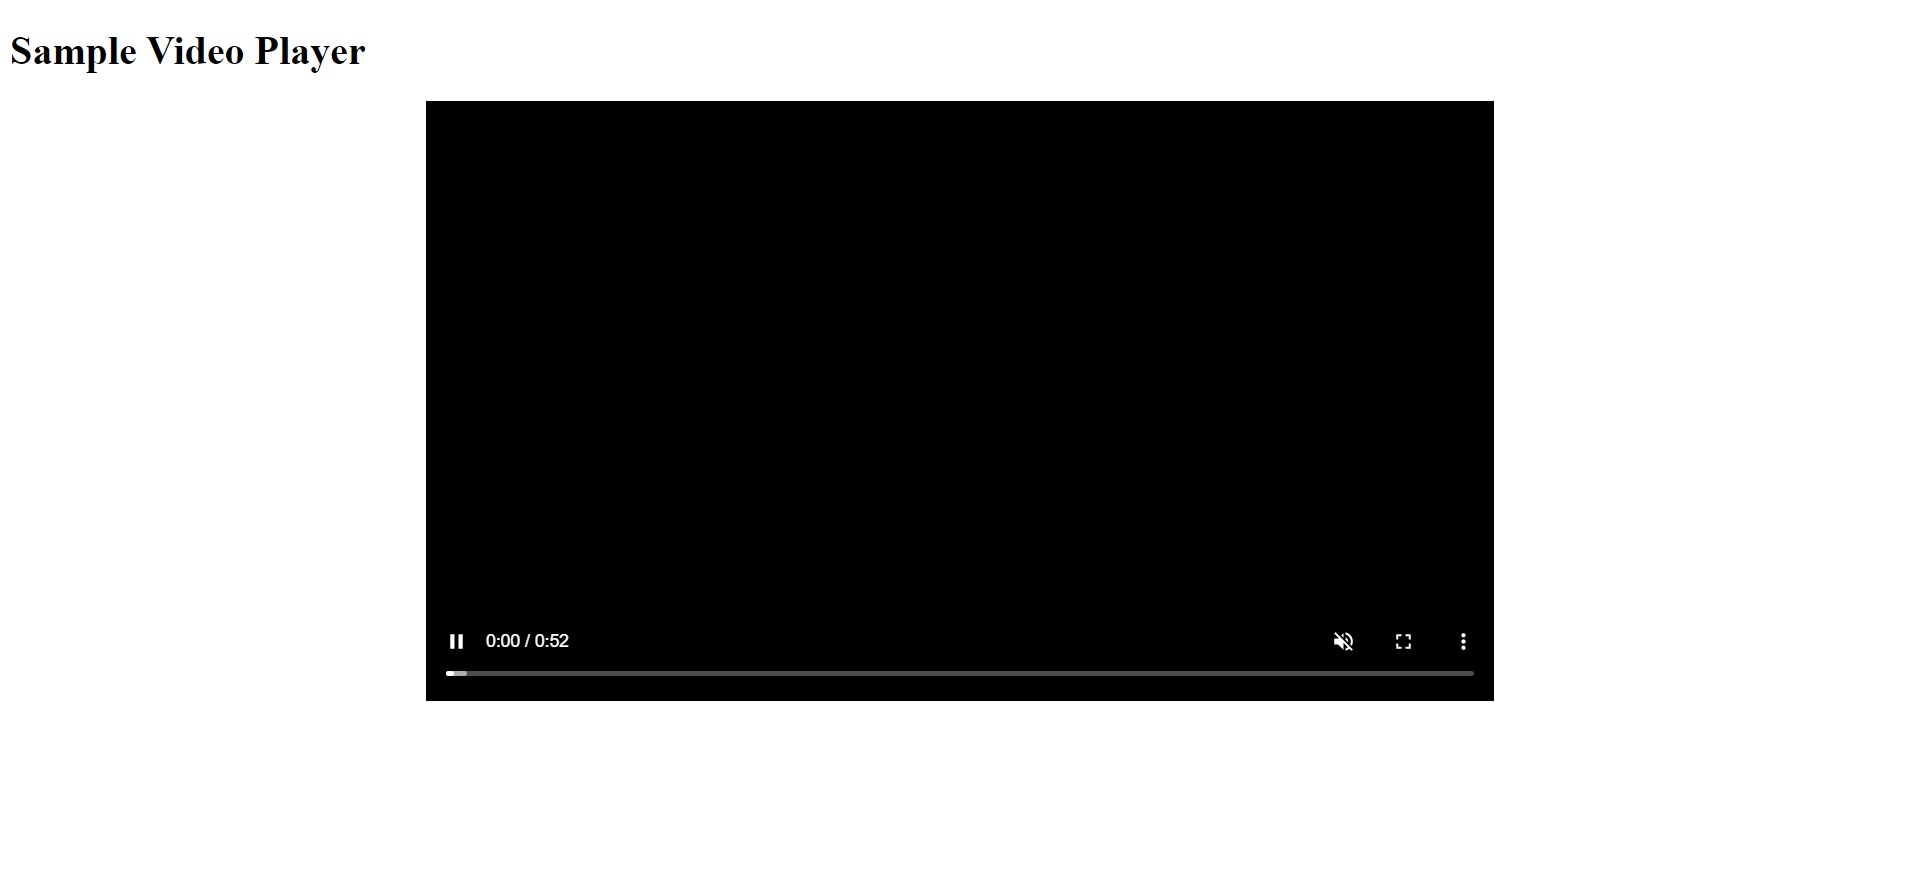
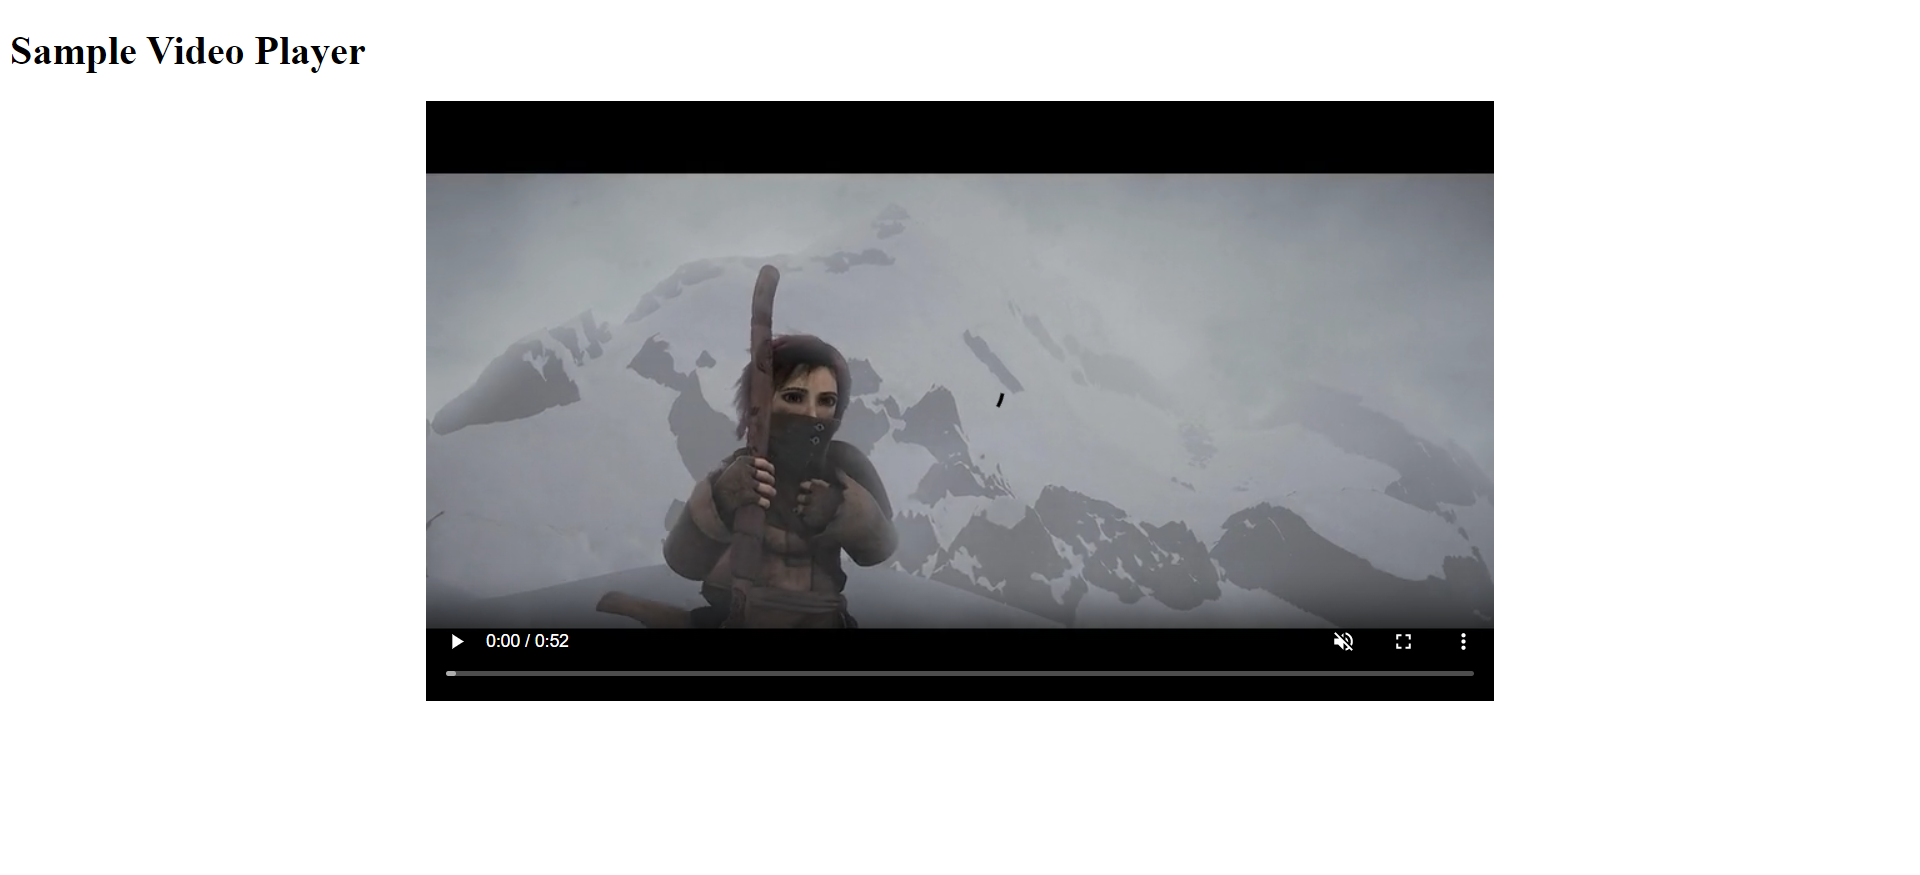
update measurement

Changed region(s): [[0.2188, 0.1851, 0.7812, 0.7406]]

diff --git a/measurement.py b/measurement.py
@@ -32,7 +32,7 @@ def run_video():
 
 	# get url
 	url2 = 'https://www.youtube.com/watch?v=' + EXPCONFIG['ytId']
-	url = 'https://video-qoe-app.onrender.com/automation'
+	url = 'https://www.w3.org/2010/05/video/mediaevents.html'
     #'https://www.w3.org/2010/05/video/mediaevents.html'
 
 	# set file prefix
